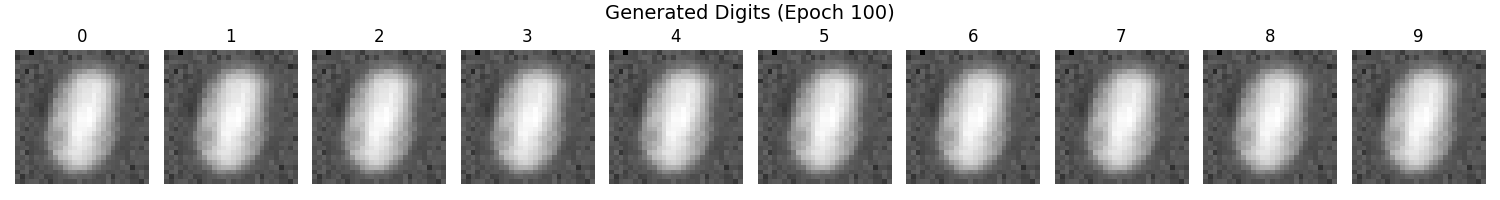
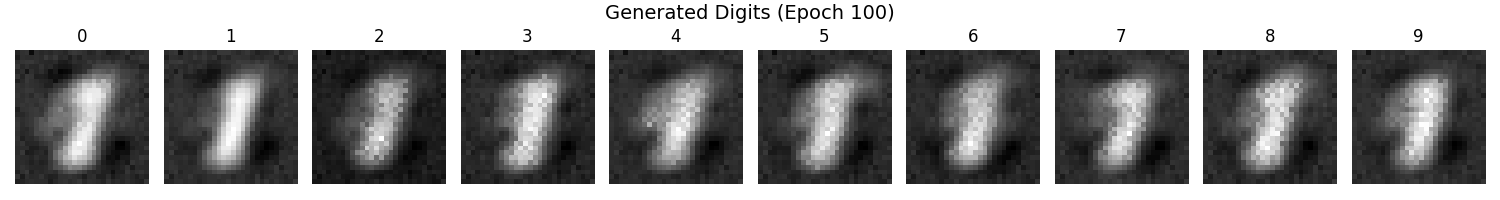
mask

diff --git a/Code/Diff_bPC/ikerude.py b/Code/Diff_bPC/ikerude.py
@@ -10,7 +10,6 @@ import torch.nn as nn
 import torch.nn.functional as F
 from torch.utils.data import DataLoader
 from torchvision import datasets, transforms
-import matplotlib.pyplot as plt  # 追加: 画像保存用
 
 
 # =========================
@@ -176,6 +175,7 @@ class DiffPCLayerTorch(nn.Module):
     def step(self, clamp_status: bool, data_in: Optional[torch.Tensor],
              s_in_disc: torch.Tensor, s_in_gen: torch.Tensor,
              e_in_disc: torch.Tensor, e_in_gen: torch.Tensor,
+             bottomup_mask: bool = False, topdown_mask: bool = False, 
              sample_step_override: Optional[int] = None):
         B = s_in_disc.size(0)
         if self.x_F_disc is None or self.x_F_gen is None or \
@@ -197,6 +197,13 @@ class DiffPCLayerTorch(nn.Module):
         self.x_F_gen.add_(self.s_in_gen * l_t_prev)
         self.e_T_disc = self.alpha_disc * (self.x_T - self.x_F_disc)
         self.e_T_gen = self.alpha_gen * (self.x_T - self.x_F_gen)
+        if hasattr(self, 'ff_init_duration') and sample_step < self.ff_init_duration and bottomup_mask:
+            self.x_F_disc.zero_()
+            self.e_T_disc.zero_()
+        if hasattr(self, 'ff_init_duration') and sample_step < self.ff_init_duration and topdown_mask:
+            self.x_F_gen.zero_()
+            self.e_T_gen.zero_()
+
         self.e_in_disc.add_(e_in_disc.to(self.device) * l_t_prev)
         self.e_in_gen.add_(e_in_gen.to(self.device) * l_t_prev)
 
@@ -212,8 +219,10 @@ class DiffPCLayerTorch(nn.Module):
         diff_gen_err = self.e_T_gen - self.e_A_gen
         s_e_disc_new = torch.sign(diff_disc_err) * (diff_disc_err.abs() > self.l_t)
         s_e_gen_new = torch.sign(diff_gen_err) * (diff_gen_err.abs() > self.l_t)
-        if hasattr(self, 'ff_init_duration') and sample_step < self.ff_init_duration: s_e_disc_new.zero_()
-        if hasattr(self, 'ff_init_duration') and sample_step < self.ff_init_duration: s_e_gen_new.zero_()
+        if hasattr(self, 'ff_init_duration') and sample_step < self.ff_init_duration:
+            s_e_disc_new.zero_()
+            s_e_gen_new.zero_()
+
         self.e_A_disc.add_(s_e_disc_new * self.l_t)
         self.e_A_gen.add_(s_e_gen_new * self.l_t)
         self.s_e_disc = s_e_disc_new
@@ -368,7 +377,7 @@ class DiffPCNetworkTorch(nn.Module):
         return s_in_disc, s_in_gen, e_in_disc, e_in_gen
 
     @torch.no_grad()
-    def one_time_step(self):
+    def one_time_step(self, bottomup_mask: bool = False, topdown_mask : bool = False):
         B  = self.input_driver.x_F_disc.size(0)
         z  = torch.zeros(B, self.input_driver.dim, device=self.device)
         z_top = torch.zeros(B, self.layers[-1].dim, device=self.device)
@@ -379,10 +388,11 @@ class DiffPCNetworkTorch(nn.Module):
         s_in_gen.append(z_top)
 
         self.input_driver.step(self.input_driver_clamp, self.input_driver_data, z, s_in_gen[0],
-                               e_in_disc[0], z, sample_step_override=t)
+                               e_in_disc[0], z, False, topdown_mask, sample_step_override=t)
         for i, lyr in enumerate(self.layers):
-            lyr.step(self._clamp_switch[i], self._data_bucket[i], s_in_disc[i], s_in_gen[i+1],
-                     e_in_disc[i+1], e_in_gen[i], sample_step_override=t)
+            lyr.step(self._clamp_switch[i], self._data_bucket[i],
+                     s_in_disc[i], s_in_gen[i+1], e_in_disc[i+1], e_in_gen[i],
+                     bottomup_mask, topdown_mask, sample_step_override=t)
         
         self._global_step += 1
 
@@ -435,7 +445,7 @@ def run_batch_two_phase(net: DiffPCNetworkTorch, x: torch.Tensor, y_onehot: torc
 
     net.set_clamp(0, True, x)
     for li in range(1, len(net.layers) + 1): net.set_clamp(li, False)
-    for _ in range(steps_phase1): net.one_time_step()
+    for _ in range(steps_phase1): net.one_time_step(bottomup_mask=False, topdown_mask=True)
 
     # Phase-2 (continue state)
     y_phase2 = get_y_scheduler(y_phase2_spec["type"], {**y_phase2_spec["args"], "l_t_scheduler": l_t_sched})
@@ -448,7 +458,7 @@ def run_batch_two_phase(net: DiffPCNetworkTorch, x: torch.Tensor, y_onehot: torc
     
     spike_stats = SpikeStats()
     for _ in range(steps_phase2):
-        net.one_time_step()
+        net.one_time_step(bottomup_mask=False, topdown_mask=False)
         for lyr in net.layers:
             spike_stats.sa_total += (lyr.s_A != 0).sum().item()
             spike_stats.se_disc_total += (lyr.s_e_disc != 0).sum().item()
@@ -478,87 +488,13 @@ def infer_batch_forward_only(net: DiffPCNetworkTorch, x: torch.Tensor, cfg: Diff
     
     spike_stats = SpikeStats()
     for _ in range(steps):
-        net.one_time_step()
+        net.one_time_step(bottomup_mask=False, topdown_mask=True)
         for lyr in net.layers:
             spike_stats.sa_total += (lyr.s_A != 0).sum().item()
             spike_stats.se_disc_total += (lyr.s_e_disc != 0).sum().item()
             spike_stats.se_gen_total += (lyr.s_e_gen != 0).sum().item()
             
     return net.layers[-1].x_T.clone(), spike_stats
-
-@torch.no_grad()
-def run_generation_experiment(net: DiffPCNetworkTorch, cfg: DiffPCConfig, 
-                              l_t_spec: dict, y_spec: dict, epoch: int, log_dir: str):
-    """
-    学習済みモデルのラベル層を固定し、データ層をフリーにして画像を生成する実験
-    """
-    print(f"\n--- Running Generation Experiment (Epoch {epoch}) ---")
-    
-    # 0~9の数字を生成対象とする
-    digits = torch.arange(10, device=net.device)
-    y_onehot = F.one_hot(digits, num_classes=cfg.layer_dims[-1]).float()
-    
-    # スケジュール設定（学習時のPhase2と同様の設定を用いる）
-    lt_n = l_t_spec["args"]["n"]
-    custom_gen_cycles = 100
-    steps = custom_gen_cycles * lt_n
-    
-    net.set_sampling_duration(steps)
-    net.reset_all_states(batch_size=10) # 0-9の10枚分
-    net._bias_fired_once = False
-    for lyr in [net.input_driver, *net.layers]: lyr.ff_init_duration = steps
-
-    # スケジューラの初期化
-    l_t_sched = get_l_t_scheduler(l_t_spec["type"], l_t_spec["args"])
-    # 生成には更新が必要なので、Phase2用のy_scheduler（gamma > 0）を使用
-    y_gen = get_y_scheduler(y_spec["type"], {**y_spec["args"], "l_t_scheduler": l_t_sched})
-    
-    l_t_sched.begin_phase(phase_start_step=0, phase_len=steps, a=cfg.lt_a)
-    net.swap_schedulers(l_t_sched, y_gen)
-
-    # 推論モード（Dropoutなし）
-    net.set_training(False)
-
-    # === 重要: クランプの設定 ===
-    # Layer 0 (データ層): クランプを外す (生成されたイメージが現れる場所)
-    net.set_clamp(0, False) 
-    
-    # 中間層: クランプなし (デフォルト)
-    for li in range(1, len(net.layers)):
-        net.set_clamp(li, False)
-        
-    # 最上位層 (ラベル層): クランプする (生成したい数字を指定)
-    net.set_clamp(len(net.layers), True, y_onehot)
-
-    # === 生成ループ ===
-    # 初期状態は reset_all_states でゼロになっています。
-    # トップダウンの予測誤差によって input_driver.x_T が徐々に画像へ変化します。
-    for _ in range(steps):
-        net.one_time_step()
-
-    # === 結果の取得と保存 ===
-    # input_driver (データ層) のニューロン活動 x_T を取得
-    generated_data = net.input_driver.x_T.detach().cpu()
-    
-    # 画像形状にリシェイプ (MNIST/FashionMNIST: 28x28)
-    img_size = int(math.sqrt(net.cfg.layer_dims[0])) 
-    generated_imgs = generated_data.view(10, img_size, img_size)
-
-    # プロット
-    fig, axes = plt.subplots(1, 10, figsize=(15, 2))
-    for i in range(10):
-        ax = axes[i]
-        # 0番目の次元を取り出して表示
-        ax.imshow(generated_imgs[i], cmap='gray')
-        ax.axis('off')
-        ax.set_title(f"{digits[i].item()}")
-    
-    save_path = os.path.join(log_dir, f"{cfg.run_name}_epoch{epoch:02d}_generated.png")
-    plt.suptitle(f"Generated Digits (Epoch {epoch})", fontsize=14)
-    plt.tight_layout()
-    plt.savefig(save_path)
-    plt.close()
-    print(f"Generated images saved to {save_path}")
 
 
 # =========================
@@ -719,10 +655,6 @@ def main(cfg: DiffPCConfig):
             "avg_spikes_per_neuron_test_p1_se_gen": avg_se_gen_test_p1,
         })
 
-    # === 追加実験: 生成タスクの実行 ===
-    # すべての学習が完了した後に実行します
-    run_generation_experiment(net, cfg, l_t_spec, y_phase2_spec, 100, log_dir)
-
     # Save
     with open(log_path, "w") as f:
         json.dump({"config": asdict(cfg), "results": run_results}, f, indent=4)
@@ -767,7 +699,7 @@ if __name__ == "__main__":
         t_init_cycles=15,
         phase2_cycles=15,
         alpha_disc = 1,
-        alpha_gen = 0.1,
+        alpha_gen = 0.0001,
         pc_lr=0.0001,
         batch_size=256,
         epochs=10,
